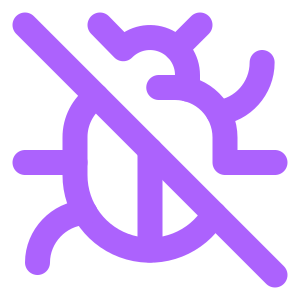
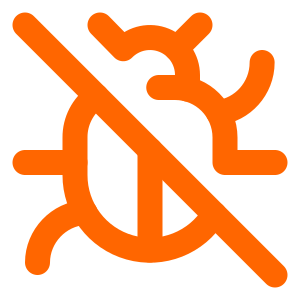
RELEASING: Releasing 1 package(s)
Releases:
  @windrun-huaiin/diaomao@20.0.0

[skip ci]

diff --git a/CHANGELOG.md b/CHANGELOG.md
@@ -1,5 +1,13 @@
 # @windrun-huaiin/diaomao
 
+## 20.0.0
+
+### Major Changes
+
+- feat(upgrade): `@windrun-huaiin` upgrade
+  - stripe update
+  - site icon update
+
 ## 16.0.1
 
 ### Patch Changes
